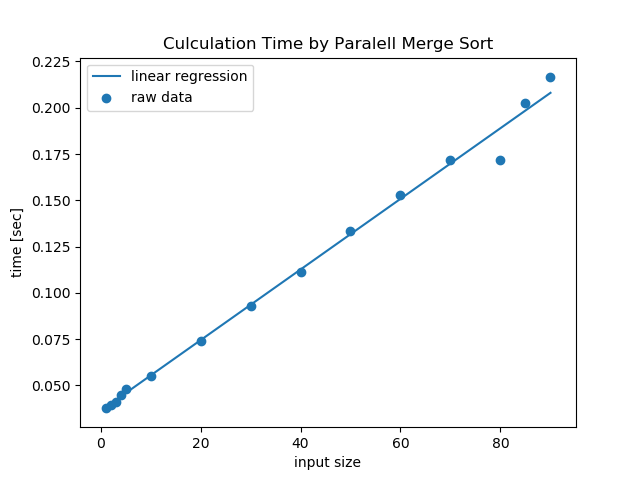
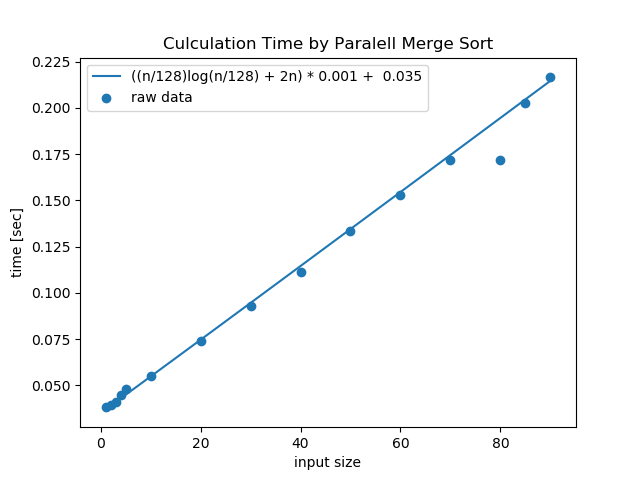
changed figure

diff --git a/continuous_system/01/plot.py b/continuous_system/01/plot.py
@@ -1,15 +1,23 @@
 import matplotlib
 matplotlib.use('Agg')
+from matplotlib import pyplot, pylab
 import matplotlib.pyplot as plt
 import numpy as np
 
 num, time = np.loadtxt("./data.txt", unpack = True)
 
-approximate = np.polyfit(num, time, 1)
+# approximate = np.polyfit(num, time, 1)
 
-linear = np.poly1d(approximate)(num)
+def y(x):
+	x.astype(float)
+	return (np.log2(x / 128) * x / 128 + 2 * x) * 0.001 + 0.035
 
-plt.plot(num, linear, label = 'linear regression')
+# linear = np.poly1d(approximate)(num)
+
+# plt.plot(num, linear, label = 'linear regression')
+
+plt.plot(num, y(num), label = '((n/128)log(n/128) + 2n) * 0.001 +  0.035')
+
 plt.scatter(num, time, label = 'raw data')
 plt.xlabel("input size")
 plt.ylabel("time [sec]")

diff --git a/continuous_system/01/explain.md b/continuous_system/01/explain.md
@@ -31,6 +31,6 @@
 
 <img src = "https://latex.codecogs.com/gif.latex?O(N&space;&plus;&space;\frac{N}{p}\log&space;{\frac{N}{p}})" />
 
-のようになります。これは、ほぼ線形に増えていく計算量で、実験結果とよく合致しますね。式からもわかるように、特にNがpに対して大きい時に、線形性が顕著になります。
+のようになります。これは、nlognで増えていく計算量で、係数が小さくなります。下のグラフを見ると、実験結果とよく合致しますね(諸説)
 
 - 上の表をグラフにしたものは[figure.png](https://github.com/BOBO1997/IS_3A/blob/master/continuous_system/01/figure.png)にあります。
